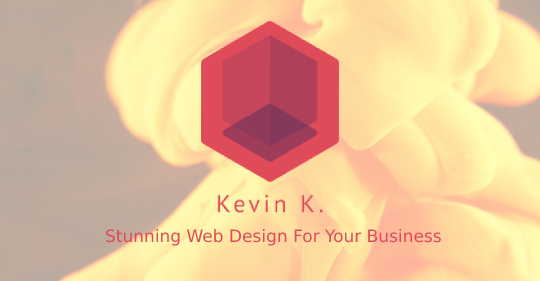
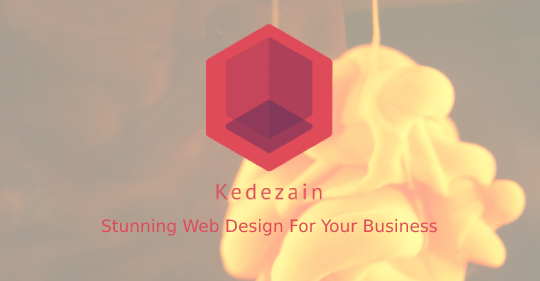
update of Open Graph

diff --git a/index.html b/index.html
@@ -1,20 +1,19 @@
 <!DOCTYPE html>
-<html lang="en" class="font-primary">
+<html lang="en" class="font-primary" prefix="og: https://ogp.me/ns#">
   <head>
     <title>Kedezain | Stunning web design for your business</title>
-
-    <!-- Required Meta Tags Always Come First -->
-    <meta charset="utf-8">
-    <meta name="viewport" content="width=device-width, initial-scale=1, shrink-to-fit=no">
-    <meta http-equiv="x-ua-compatible" content="ie=edge">
-
-    <meta property="og:title" content="Kevin K. Web Design" />
-    <meta property="og:site_name" content="Kevin K. | Stunning web design for your business">
+    <meta property="og:title" content="Kedezain Web Design" />
+    <meta property="og:site_name" content="Kedezain | Stunning web design for your business">
     <meta property="og:type" content="website" />
     <meta property="og:url" content="https://neoke20.github.io/" />
     <meta property="og:image" content="https://neoke20.github.io/assets/img/opengraph.jpg" />
     <meta property="og:description" content="Stunning Web Design For Your Business" />
     <meta property="og:locale" content="en_US" />
+
+    <!-- Required Meta Tags Always Come First -->
+    <meta charset="utf-8">
+    <meta name="viewport" content="width=device-width, initial-scale=1, shrink-to-fit=no">
+    <meta http-equiv="x-ua-compatible" content="ie=edge">
 
     <!-- Fav-->
     <link rel="shortcut icon" href="assets/img/favicon.ico">
